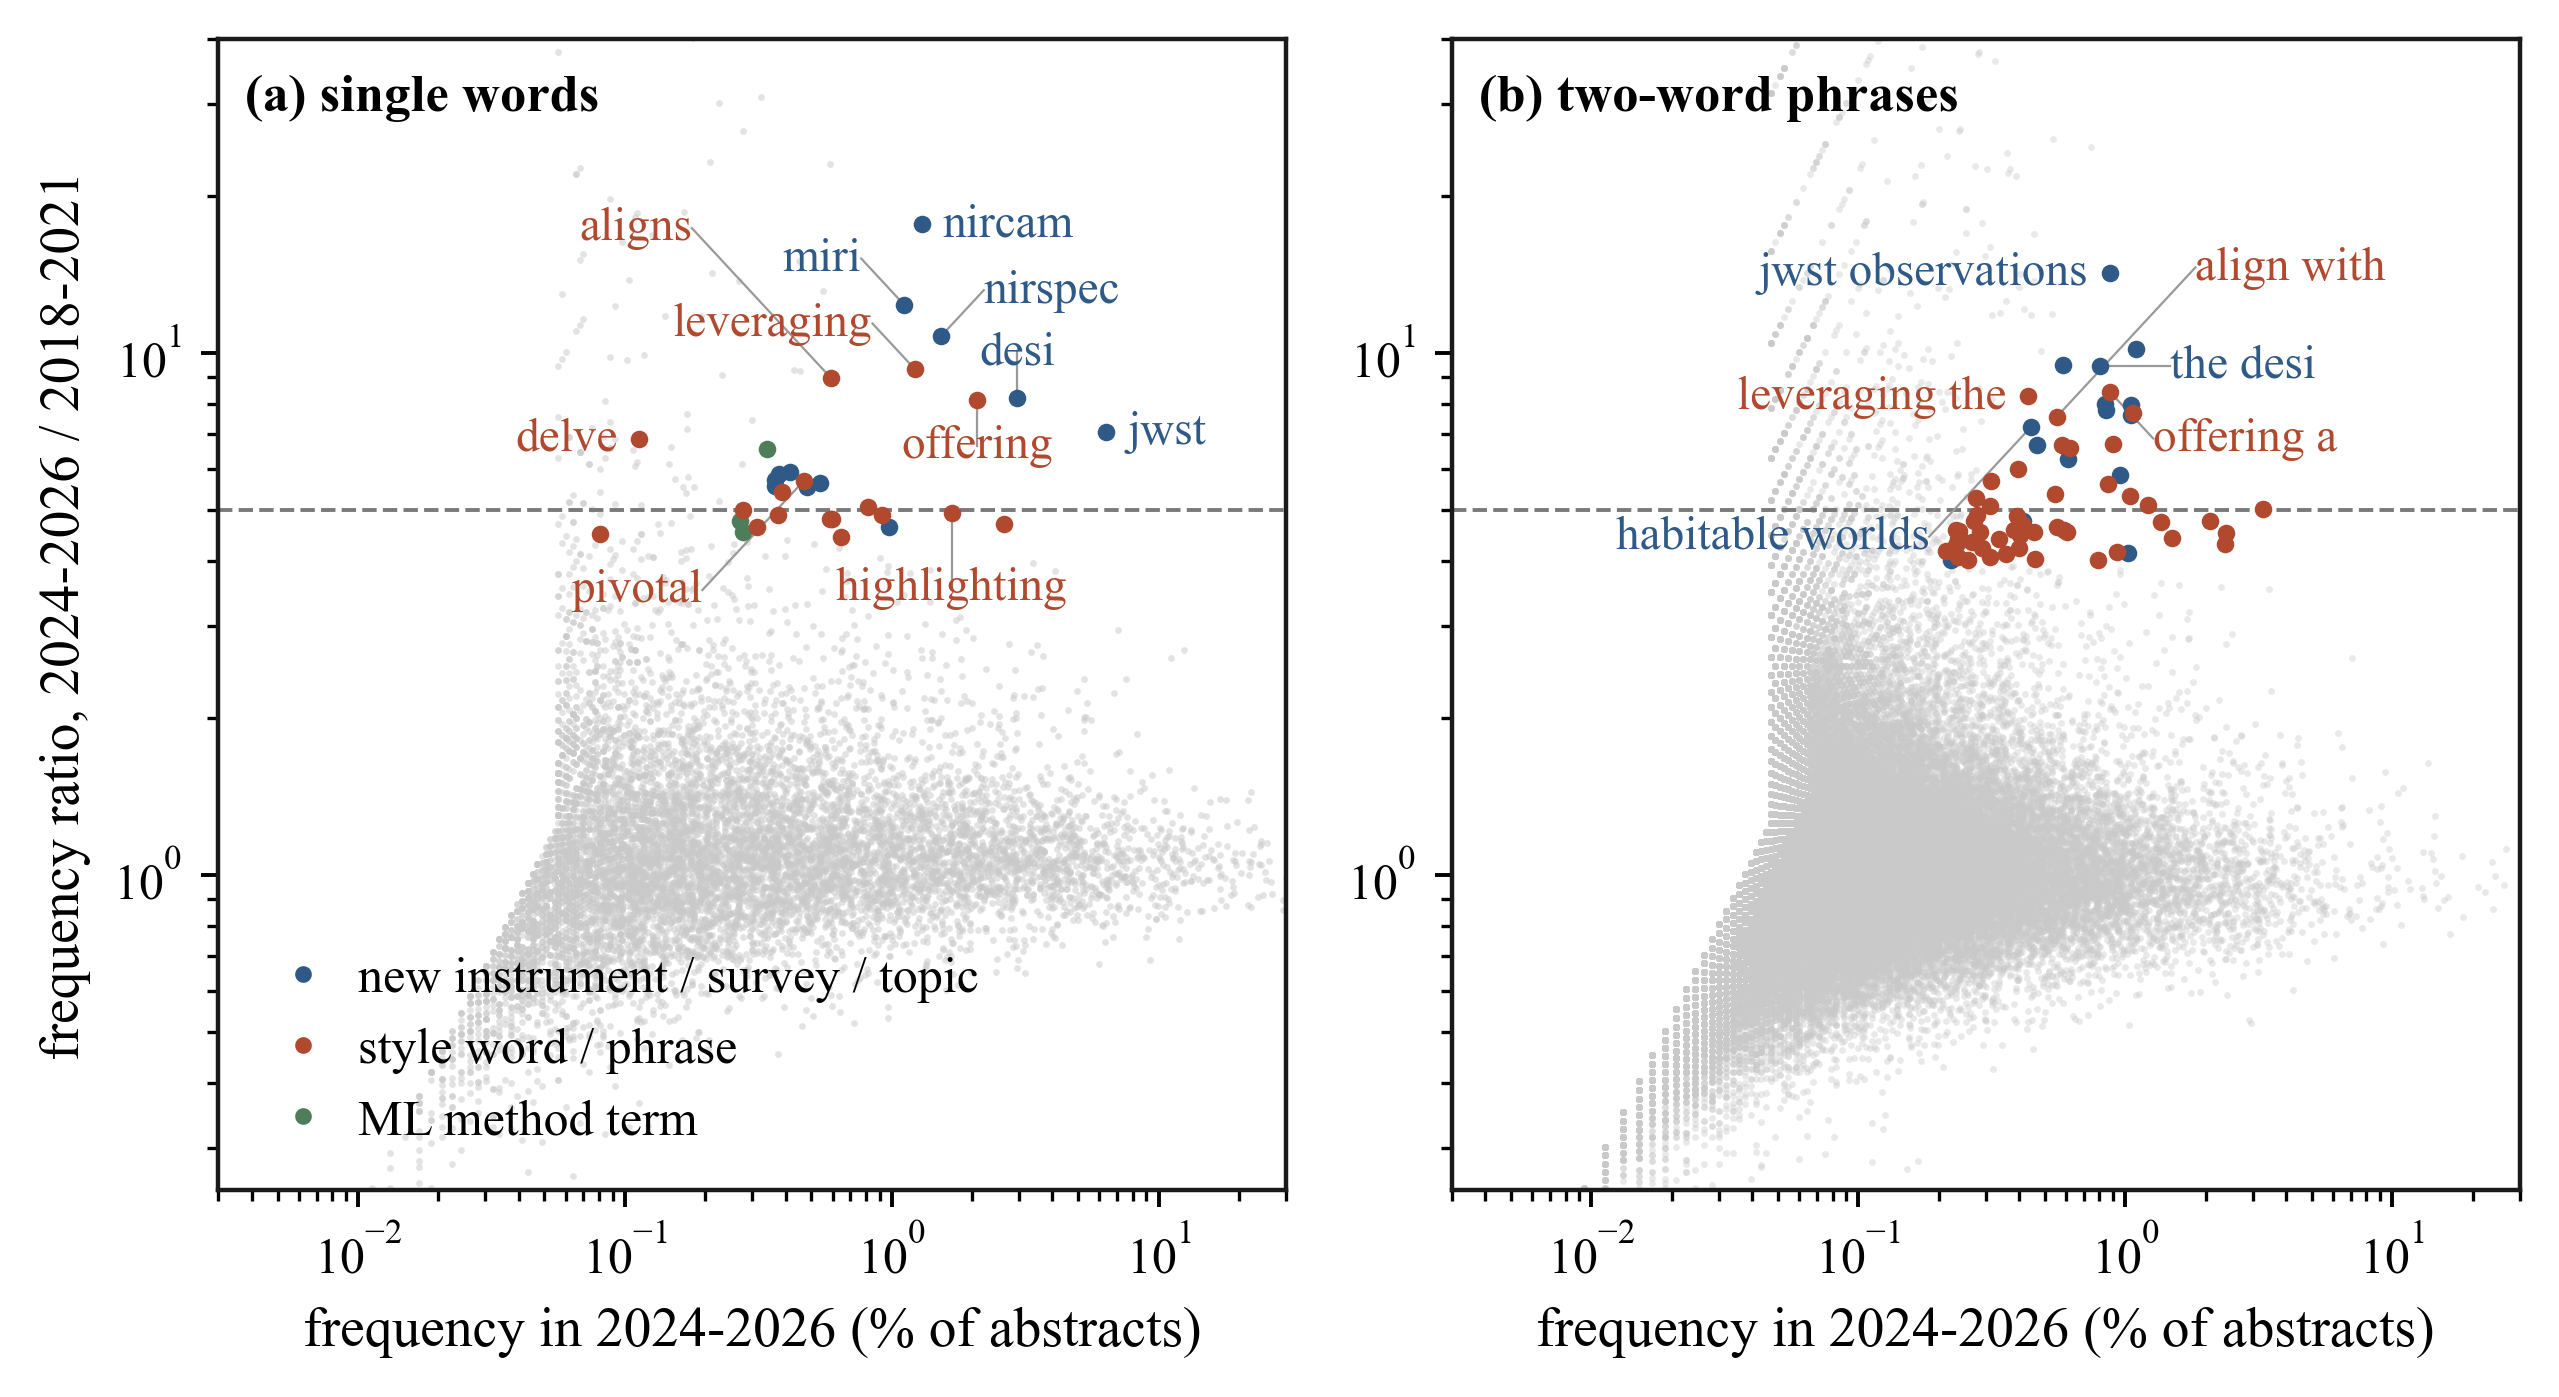
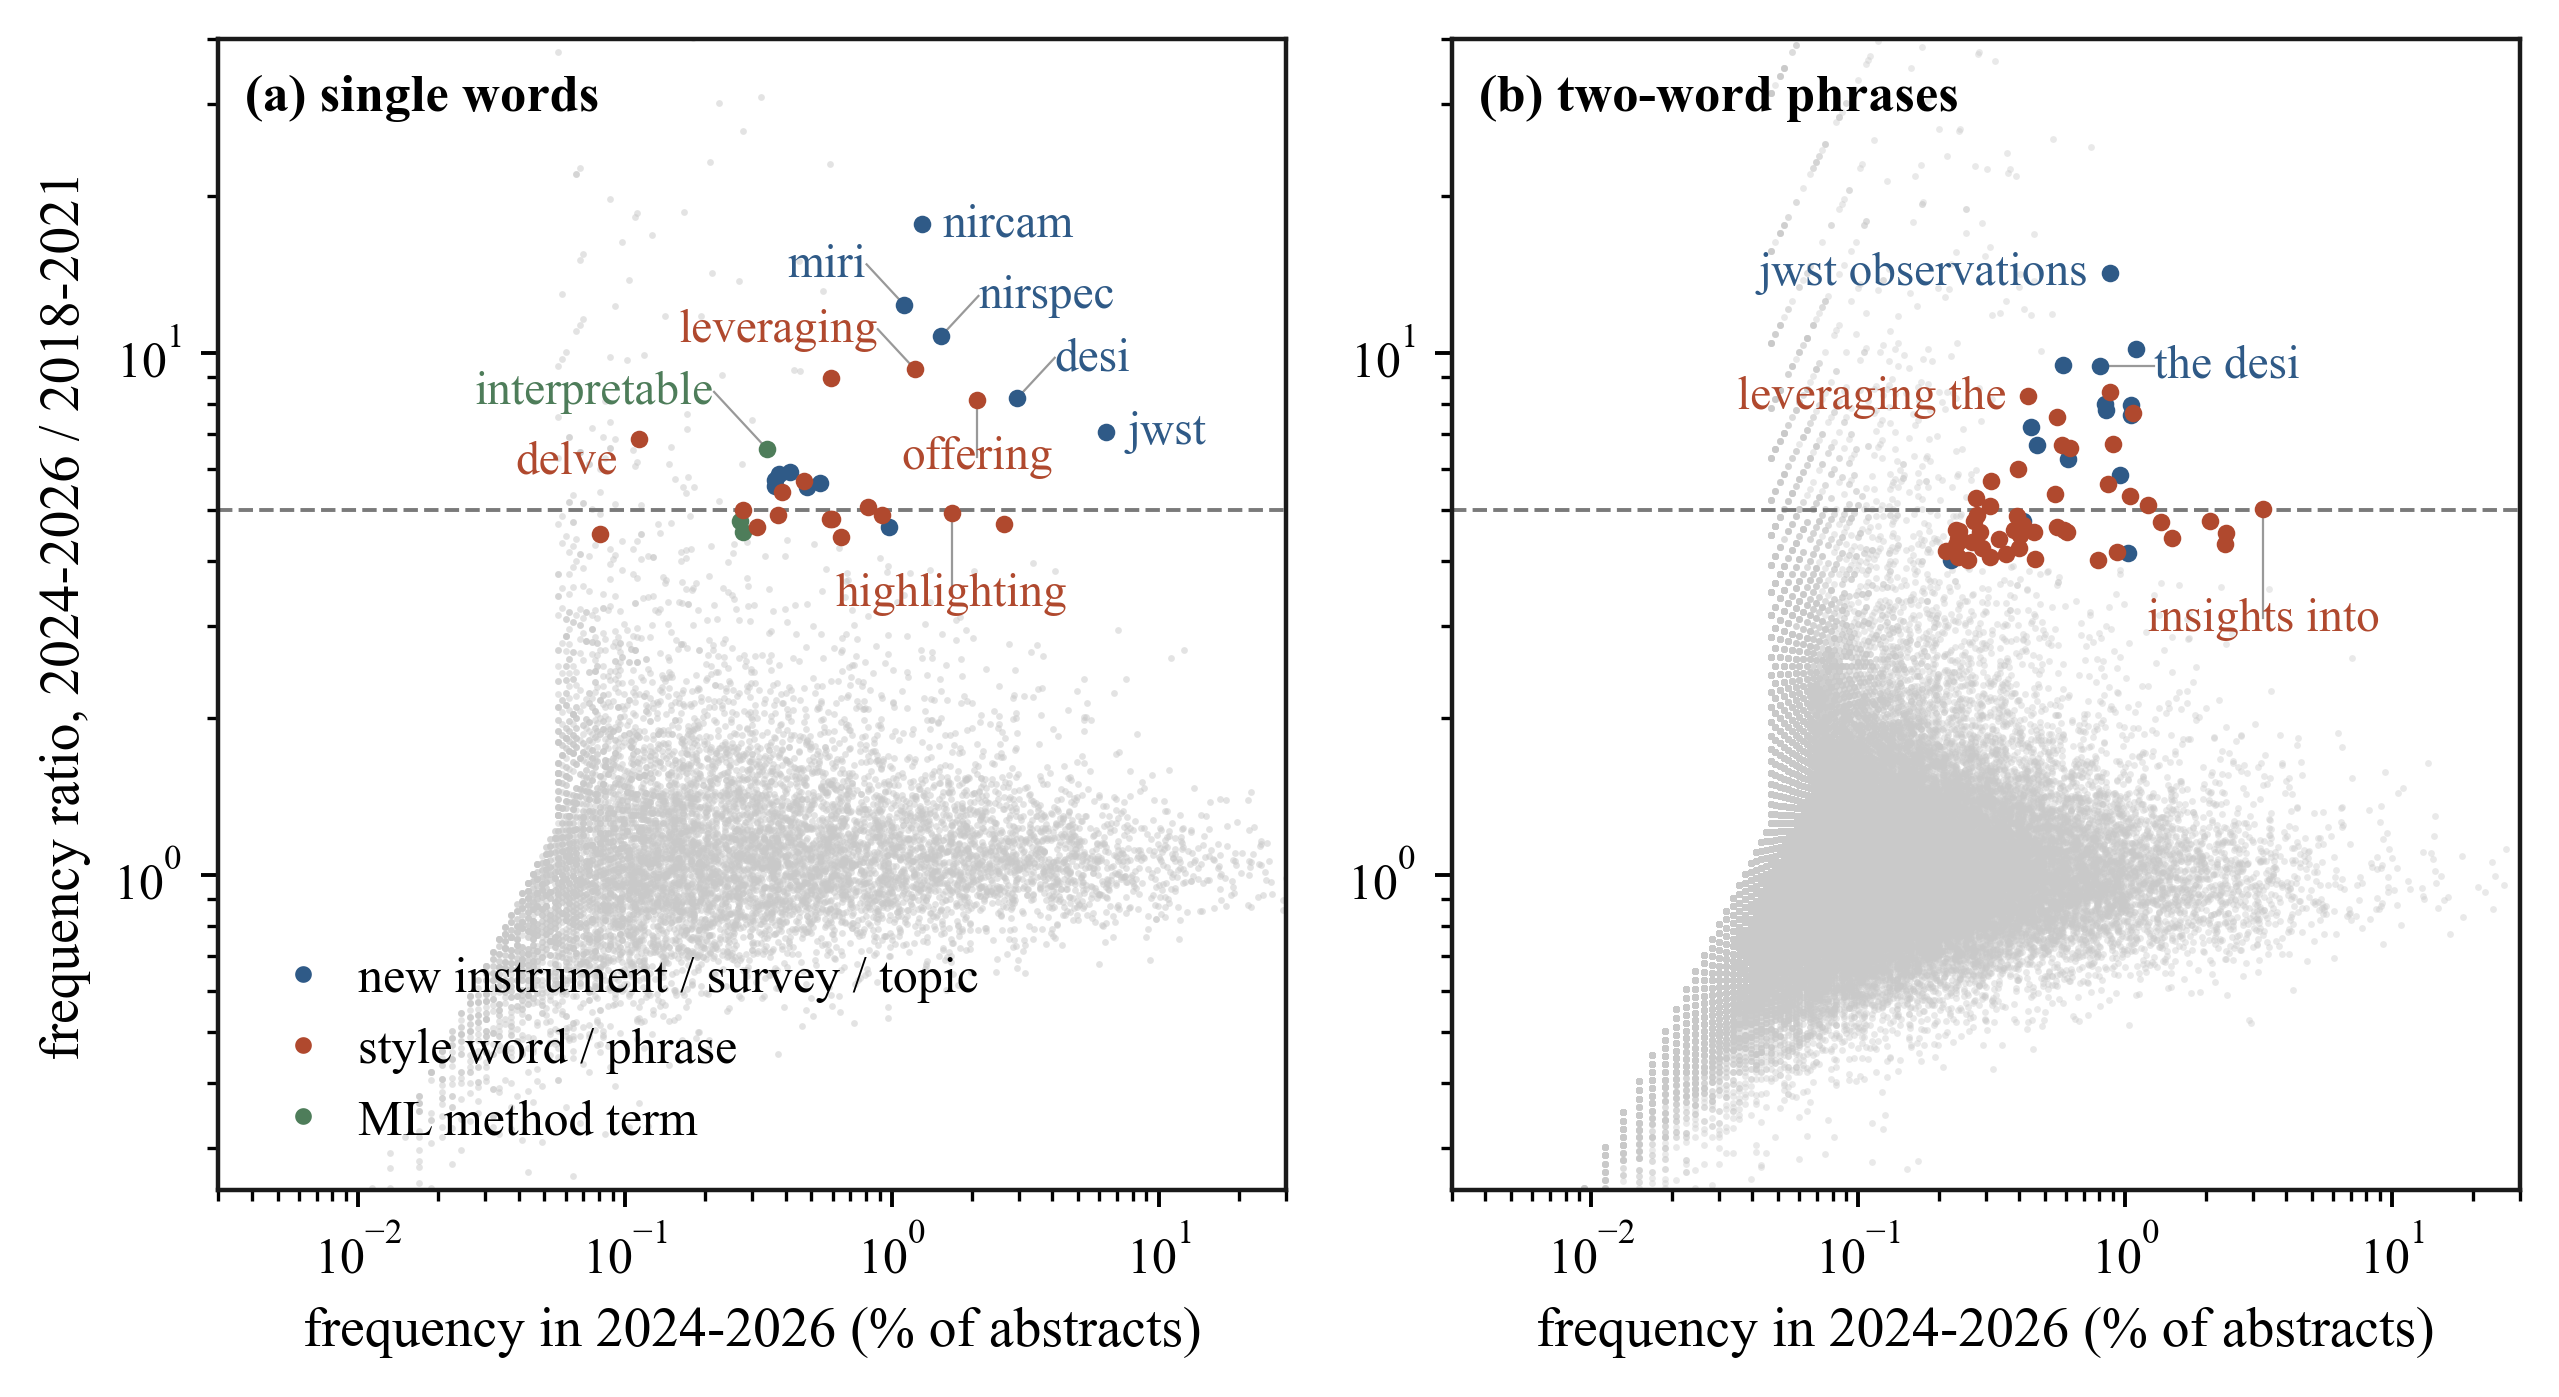
Fix leader-line crossings in the discovery figure
The label placer now rejects any candidate whose leader line passes through
another point or a placed label box (segment-vs-point and segment-vs-box tests),
and searches a wider set of offsets and angles. Curated both panels to
spatially-spread label sets that place cleanly: panel (a) shows ten labels,
panel (b) shows two topic phrases and two style phrases (swapped the buried
'offering a' for the isolated right-edge 'insights into'). No leader crosses a
point or text in either panel.

diff --git a/src/pantera_style.py b/src/pantera_style.py
@@ -99,18 +99,49 @@ def place_labels(ax, xs, ys, names, colors=None, fontsize=6.5, priority=None,
         for (px, py) in pts:
             if b[0]-ptr < px < b[2]+ptr and b[1]-ptr < py < b[3]+ptr: return True
         return False
+
+    def seg_pt_dist(ax_, ay_, bx_, by_, px_, py_):
+        dx_, dy_ = bx_-ax_, by_-ay_
+        L2 = dx_*dx_ + dy_*dy_
+        if L2 == 0: return ((px_-ax_)**2 + (py_-ay_)**2) ** 0.5
+        t = max(0.0, min(1.0, ((px_-ax_)*dx_ + (py_-ay_)*dy_)/L2))
+        cx_, cy_ = ax_+t*dx_, ay_+t*dy_
+        return ((px_-cx_)**2 + (py_-cy_)**2) ** 0.5
+
+    def seg_box(ax_, ay_, bx_, by_, bx0, by0, bx1, by1):
+        # segment vs axis-aligned box: sample points along the segment
+        for t in (0.15, 0.3, 0.45, 0.6, 0.75, 0.9):
+            sx, sy = ax_+t*(bx_-ax_), ay_+t*(by_-ay_)
+            if bx0 <= sx <= bx1 and by0 <= sy <= by1: return True
+        return False
+
+    def leader_clear(i, lx, ly, ext):
+        if ext <= 0.03: return True          # no leader drawn
+        sx, sy = pts[i]
+        for j, (px, py) in enumerate(pts):
+            if j == i: continue
+            if seg_pt_dist(sx, sy, lx, ly, px, py) < ptr: return False
+        for pb in placed:
+            if seg_box(sx, sy, lx, ly, *pb): return False
+        return True
+
+    dropped = []
     for i in order:
         p = pts[i]; w = len(names[i])*ch_w
         best = None
-        for ext in (0.02, 0.04, 0.065, 0.095, 0.13):
-            for dx, dy, ha in ((ext, 0, "left"), (-ext, 0, "right"), (0, ext, "center"),
-                               (0, -ext, "center"), (ext, ext, "left"), (ext, -ext, "left"),
-                               (-ext, ext, "right"), (-ext, -ext, "right")):
+        for ext in (0.02, 0.035, 0.05, 0.07, 0.095, 0.125, 0.16, 0.2, 0.25):
+            for mx, my, ha in ((1, 0, "left"), (-1, 0, "right"), (0, 1, "center"),
+                               (0, -1, "center"), (1, 1, "left"), (1, -1, "left"),
+                               (-1, 1, "right"), (-1, -1, "right"),
+                               (0.5, 1, "center"), (-0.5, 1, "center"),
+                               (0.5, -1, "center"), (-0.5, -1, "center")):
+                dx, dy = mx*ext, my*ext
                 b = box(p[0]+dx, p[1]+dy, w, ha)
-                if not clash(b):
+                if not clash(b) and leader_clear(i, p[0]+dx, p[1]+dy, ext):
                     best = (p[0]+dx, p[1]+dy, ha, b, ext); break
             if best: break
         if best is None:
+            dropped.append(names[i])
             continue                        # skip label rather than overlap
         lx, ly, ha, b, ext = best
         placed.append(b)
@@ -119,3 +150,4 @@ def place_labels(ax, xs, ys, names, colors=None, fontsize=6.5, priority=None,
             ax.plot([xs[i], ix(lx)], [ys[i], iy(ly)], lw=0.4, color="#999999", zorder=3)
         ax.annotate(names[i], (ix(lx), iy(ly)), fontsize=fontsize, ha=ha,
                     va="center", color=col, zorder=6)
+    return dropped

diff --git a/src/plots.py b/src/plots.py
@@ -160,14 +160,15 @@ def fig3_discovery():
     axA.set_ylabel("frequency ratio, 2024-2026 / 2018-2021")
     axA.text(0.025, 0.97, "(a) single words", transform=axA.transAxes,
              va="top", ha="left", fontsize=9.5, fontweight="bold", zorder=7)
-    show_a = ["nircam", "miri", "nirspec", "jwst", "desi", "xrism", "ixpe",
-              "interpretable", "leveraging", "aligns", "offering", "pivotal",
+    show_a = ["nircam", "miri", "nirspec", "jwst", "desi",
+              "interpretable", "leveraging", "offering", "pivotal",
               "intricate", "highlighting", "delve"]
     ann = sel[sel.word.isin(show_a)]
     others = sel[~sel.word.isin(show_a)]
-    place_labels(axA, list(ann.rec_freq*100), list(ann.ratio), list(ann.word),
+    dropA = place_labels(axA, list(ann.rec_freq*100), list(ann.ratio), list(ann.word),
                  colors=[kcol[k] for k in ann.kind], fontsize=8.5,
                  obstacles=list(zip(others.rec_freq*100, others.ratio)))
+    print('fig3a dropped:', dropA)
 
     # ---- panel (b): two-word phrases ----
     axB.scatter(bg.rec_freq*100, bg.ratio, s=1.5, color="#C9C9C9", alpha=0.4,
@@ -183,14 +184,13 @@ def fig3_discovery():
     axB.set_xlabel("frequency in 2024-2026 (% of abstracts)")
     axB.text(0.025, 0.97, "(b) two-word phrases", transform=axB.transAxes,
              va="top", ha="left", fontsize=9.5, fontweight="bold", zorder=7)
-    show_b = ["jwst observations", "the desi", "energy spectroscopic",
-              "habitable worlds", "leveraging the", "align with", "offering a",
-              "results highlight", "findings indicate"]
+    show_b = ["jwst observations", "the desi", "leveraging the", "insights into"]
     annb = selb[selb.bigram.isin(show_b)]
     othb = selb[~selb.bigram.isin(show_b)]
-    place_labels(axB, list(annb.rec_freq*100), list(annb.ratio), list(annb.bigram),
+    dropB = place_labels(axB, list(annb.rec_freq*100), list(annb.ratio), list(annb.bigram),
                  colors=[kcol[k] for k in annb.kind], fontsize=8.5,
                  obstacles=list(zip(othb.rec_freq*100, othb.ratio)))
+    print('fig3b dropped:', dropB)
 
     from matplotlib.lines import Line2D
     axA.legend(handles=[